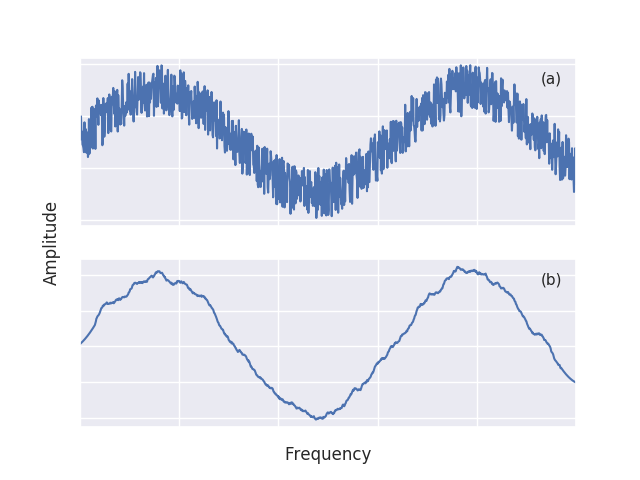
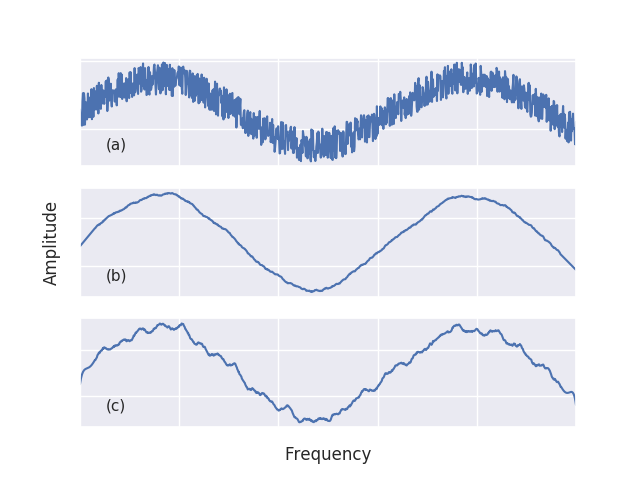
update

diff --git a/cs538/figH.py b/cs538/figH.py
@@ -4,7 +4,7 @@ import seaborn as sns
 from scipy.signal import savgol_filter
 
 x = np.linspace(0, 10, 1000)
-y = np.array([np.sin(val) for val in x])
+y = np.array([np.sin(val**2) for val in x])
 y = y + np.random.rand(1000)
 y_filt = savgol_filter(y, 61, 1)
 y_filt2 = savgol_filter(y, 61, 5)
@@ -37,5 +37,5 @@ ax3.set_xlim(0, 10)
 ax3.set_xticklabels('')
 ax3.set_yticklabels('')
 
-plt.savefig("savgol.png")
+plt.savefig("savgol2.png")
 #plt.show()
